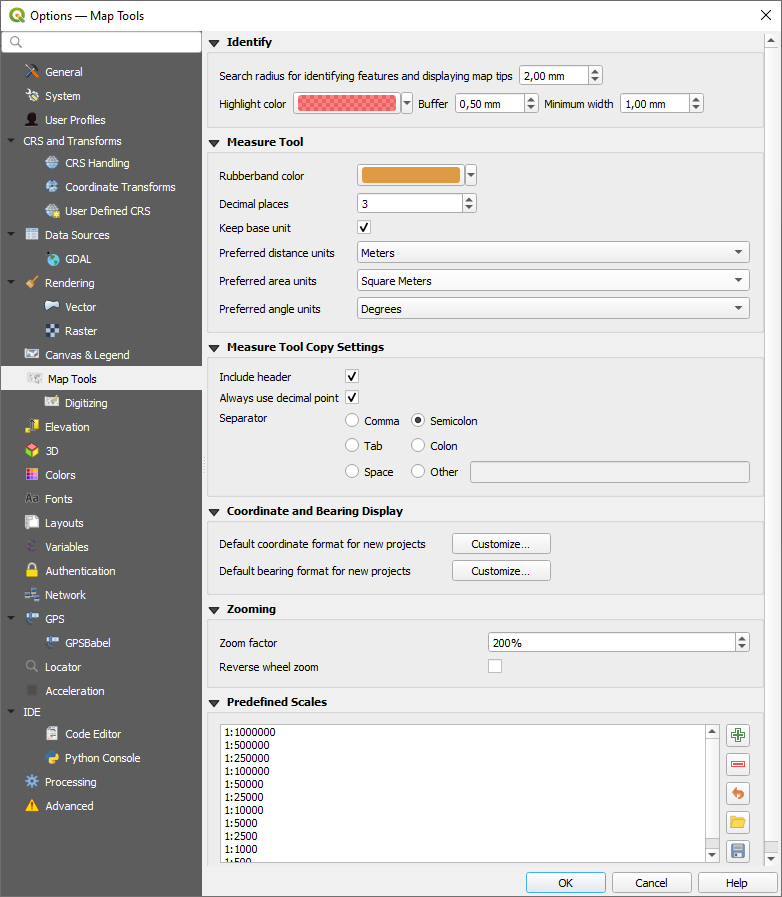
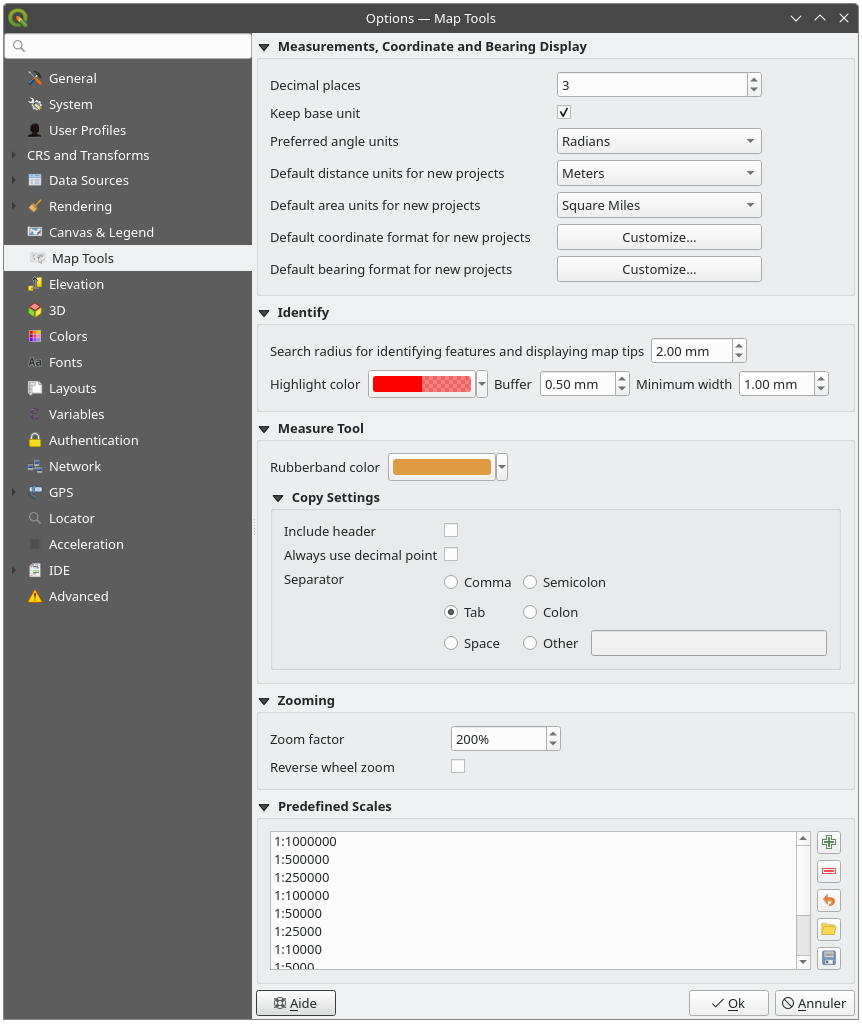
Reorganize measurements, coordinate and bearing units properties

Changed region(s): [[0.0, 0.0, 1.0, 1.0], [0.6138, 0.6867, 0.6752, 0.7492], [0.5217, 0.6867, 0.5831, 0.7492]]

diff --git a/docs/user_manual/introduction/qgis_configuration.rst b/docs/user_manual/introduction/qgis_configuration.rst
@@ -778,7 +778,38 @@ Map tools Settings
 
    Map tools settings
 
-This tab offers some options regarding the behavior of the :ref:`Identify tool <identify>`.
+.. _global_measure_tool:
+
+**Measurements, Coordinate and Bearing Display**
+
+This section provides ways to configure default units parameters:
+
+* Define :guilabel:`Decimal places`
+* |checkbox| :guilabel:`Keep base unit` to not automatically convert large
+  numbers (e.g., meters to kilometers)
+* :guilabel:`Preferred angle units`: options are 'Degrees', 'Radians',
+  'Gon/gradians', 'Minutes of arc', 'Seconds of arc', 'Turns/revolutions',
+  milliradians (SI definition) or mil (NATO/military definition)
+* :guilabel:`Default distance units for new projects`: options are 'Meters',
+  'Kilometers', 'Feet', 'Yards', 'Miles', 'Nautical Miles', 'Centimeters',
+  'Millimeters', 'Inches', 'Degrees' or 'Map Units' (automatically matches the project’s CRS units)
+* :guilabel:`Preferred area units for new projects`: options are 'Square meters',
+  'Square kilometers', 'Square feet', 'Square yards', 'Square miles', 'Hectares',
+  'Acres', 'Square nautical miles', 'Square centimeters', 'Square millimeters',
+  'Square inches', 'Square degrees' or 'Map Units' (automatically matches the project’s CRS units)
+* :guilabel:`Default coordinate format for new projects`,
+  as displayed in the :guilabel:`Coordinates` box on QGIS status bar
+  and in the :guilabel:`Derived` section of the |identify| :sup:`Identify features` tool's results
+* :guilabel:`Default bearing format for new projects`, as displayed in the status bar
+  for the map canvas panning direction and by the |measureBearing| :sup:`Measure bearing` tool.
+
+The global options can be overridden at the project level,
+:ref:`here <measurements_ellipsoid>` for measurement units and
+:ref:`here <coordinate_and_bearing>` for coordinate and bearing formatting.
+
+**Identify tool**
+
+This group offers some options regarding the behavior of the :ref:`Identify tool <identify>`.
 
 * :guilabel:`Search radius for identifying features and displaying map tips` is
   a tolerance distance within which the identify tool will depict results
@@ -790,38 +821,11 @@ This tab offers some options regarding the behavior of the :ref:`Identify tool <
 * :guilabel:`Minimum width` determines how thick should
   the outline of a highlighted object be.
 
-.. _global_measure_tool:
+.. _measure_copy_settings:
 
 **Measure tool**
 
 * Define :guilabel:`Rubberband color` for measure tools
-* Define :guilabel:`Decimal places`
-* |checkbox| :guilabel:`Keep base unit` to not automatically convert large
-  numbers (e.g., meters to kilometers)
-* :guilabel:`Preferred distance units`: options are 'Meters', 'Kilometers',
-  'Feet', 'Yards', 'Miles', 'Nautical Miles', 'Centimeters', 'Millimeters',
-  'Inches', 'Degrees' or 'Map Units'
-* :guilabel:`Preferred area units`: options are 'Square meters', 'Square
-  kilometers', 'Square feet', 'Square yards', 'Square miles', 'Hectares',
-  'Acres', 'Square nautical miles', 'Square centimeters', 'Square millimeters',
-  'Square inches', 'Square degrees' or 'Map Units'
-* :guilabel:`Preferred angle units`: options are 'Degrees', 'Radians',
-  'Gon/gradians', 'Minutes of arc', 'Seconds of arc', 'Turns/revolutions',
-  milliradians (SI definition) or mil (NATO/military definition)
-
-Some of these options can be overridden at the :ref:`project level <measurements_ellipsoid>`.
-
-.. tip::
-
- To ensure the reported distance and area units follow the project's CRS,
- choose the appropriate :guilabel:`Units for distance measurements` and :guilabel:`Units for area measurements`
- from the drop-down menu in :menuselection:`Project --> Properties… --> General --> Measurements`.
- You can select from various distance units (such as meters, feet, miles, etc.)
- and area units (such as square meters, acres, square miles, etc.),
- or choose :guilabel:`Map Units` to automatically match the project's CRS units.
- This setting makes the measurement results dynamically adapt to the project's CRS.
-
-.. _measure_copy_settings:
 
 **Measure Tool Copy Settings**
 
@@ -834,18 +838,6 @@ to the clipboard with a dot as a decimal separator, even if your language settin
 in QGIS options are set up to use a comma. In this case, if you don't have the 
 :guilabel:`Always use decimal point` 
 option checked, you will be unable to select comma as a field separator.
-
-**Coordinate and Bearing Display**
-
-This section provides ways to :guilabel:`Configure`:
-
-* :guilabel:`Default coordinate format for new projects`,
-  as displayed in the :guilabel:`Coordinates` box on QGIS status bar
-  and in the :guilabel:`Derived` section of the |identify| :sup:`Identify features` tool's results
-* :guilabel:`Default bearing format for new projects`, as displayed in the status bar
-  for the map canvas panning direction and by the |measureBearing| :sup:`Measure bearing` tool.
-
-These options can be overridden at the :ref:`project level <coordinate_and_bearing>`.
 
 **Panning and zooming**
 
